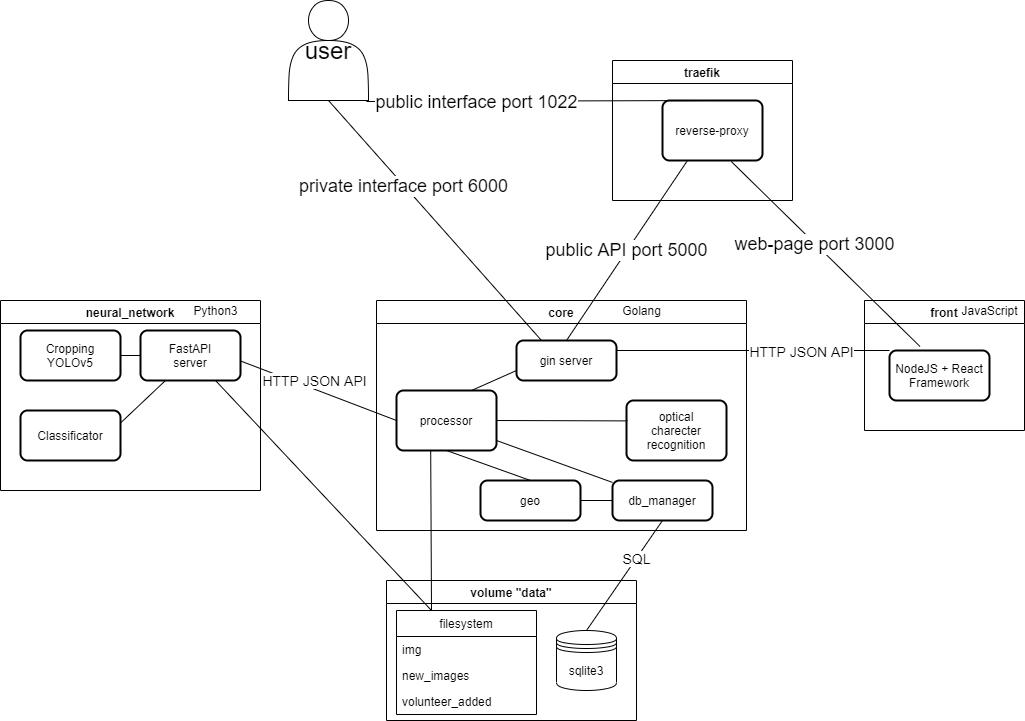
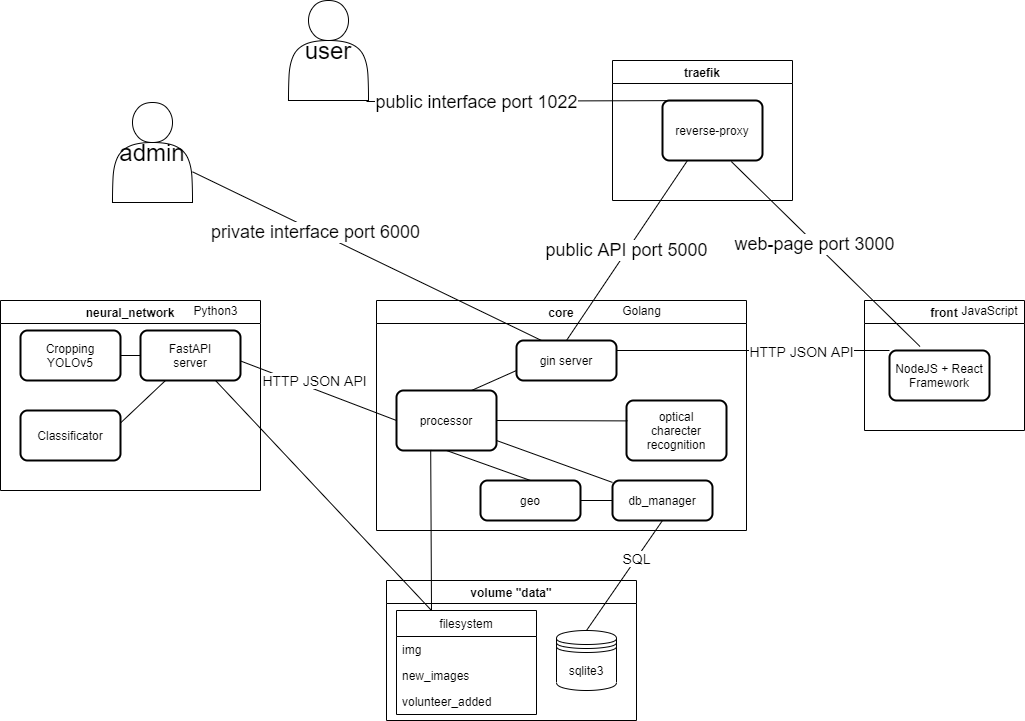
documentation

Changed region(s): [[0.281, 0.2441, 0.4995, 0.2746], [0.1873, 0.3051, 0.4059, 0.3356], [0.0937, 0.1831, 0.1873, 0.2441]]

diff --git a/readme.md b/readme.md
@@ -171,14 +171,31 @@ name - имя файла, полученное из запроса /api/image/by
 Ответ
 204 OK
 
-### Добавление изображений в базу
+# Добавление изображений в базу
 - Контейнер использует volume data, в котором папка /opt/dogfound/data/new_images проверяется на наличие новых изображений по умолчанию каждые 5 секунд. Можно добавить изображения в эту папку, например, командой
 ```docker cp ./core/my_data/new_images dogfound-core-1:/opt/dogfound/data/```
 При добавлении этим методом файлов с названием, которое уже есть в базе данных, они будут заменены.
 - Можно воспользоваться приватным API /image/upload
 При добавлении этим методом существующие изображения не будут перезаписаны.
 
+# Распознование текста
+Номера камер и временные метки считываются с фиксированного места на изображении (слева сверху). К фрагменту изображения применяется предобработка методами OpenCV, на обработанном участке происходит распознавание текста с помощью tesseract. Качество распознавания текста хорошее уже при задании языка, дополнительные настройки не используются. Мелкие частые ошибки (перепутанные 0 и O) исправляются в постобработке.
+
 # Ноутбук с построением csv файла на датасете и AI
 Находится в neural_network/notebooks/build_test_csv.ipynb
 "Боевая" логика для сервиса - neural_network/detect.py
 Обученные модели - YOLOv5l и resnet38 в neural_network/models
+
+# Архитектура
+![architecture](https://user-images.githubusercontent.com/51422193/140593074-4ae27bfa-0a8b-4416-8e92-99f2ac46cc3c.png)
+Сервис состоит из докер-контейнеров, которые обмениваются между собой сообщениями через с помощью HTTP JSON. 
+
+Ядро сервиса, core, отвечает за доступ к базе данных, проверку нахождения новых изображений в папке new_images, поток их обработки и предоставление пользовательского API. Обработка выполняется в многопоточном режиме. Изображения, полученные любым способом, сохраняются на диск и в дальнейшем core передает их адрес другим сервисом для обработки, сервисы считывают изображения из файловой системы по заданному адресу. В директории volunteer_added находятся изображения, добавленные пользователями не с камер наблюдения, папйлайн их обработки отличается.
+
+Контейнер с нейронными сетями neural_network содержит сервер FastAPI, осуществляющий асинхронную обработку получаемых задач. Задачи содержат путь к изображениий, которые нужно обрабатывать, к ним происходит доступ на чтение напрямую через файловую систему.
+
+Контейнер с фронтэндом содержит код, загружающийся в браузер пользователя.
+
+Доступ к портам фронтэнда и бекэнда происходит через единственный порт 1022 с помощью обратного прокси, назначение определяется по url.
+
+Отдельно предоставляется доступ для администрирования через порт 6000, 
